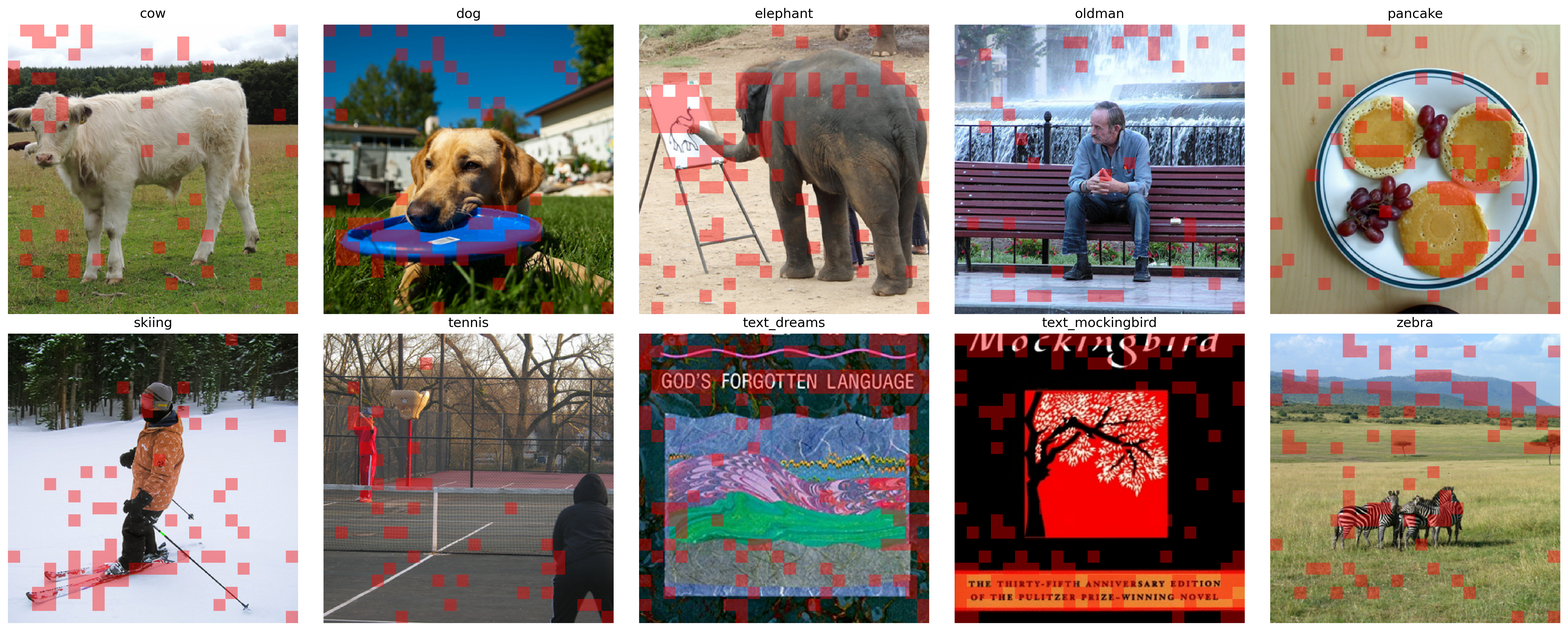
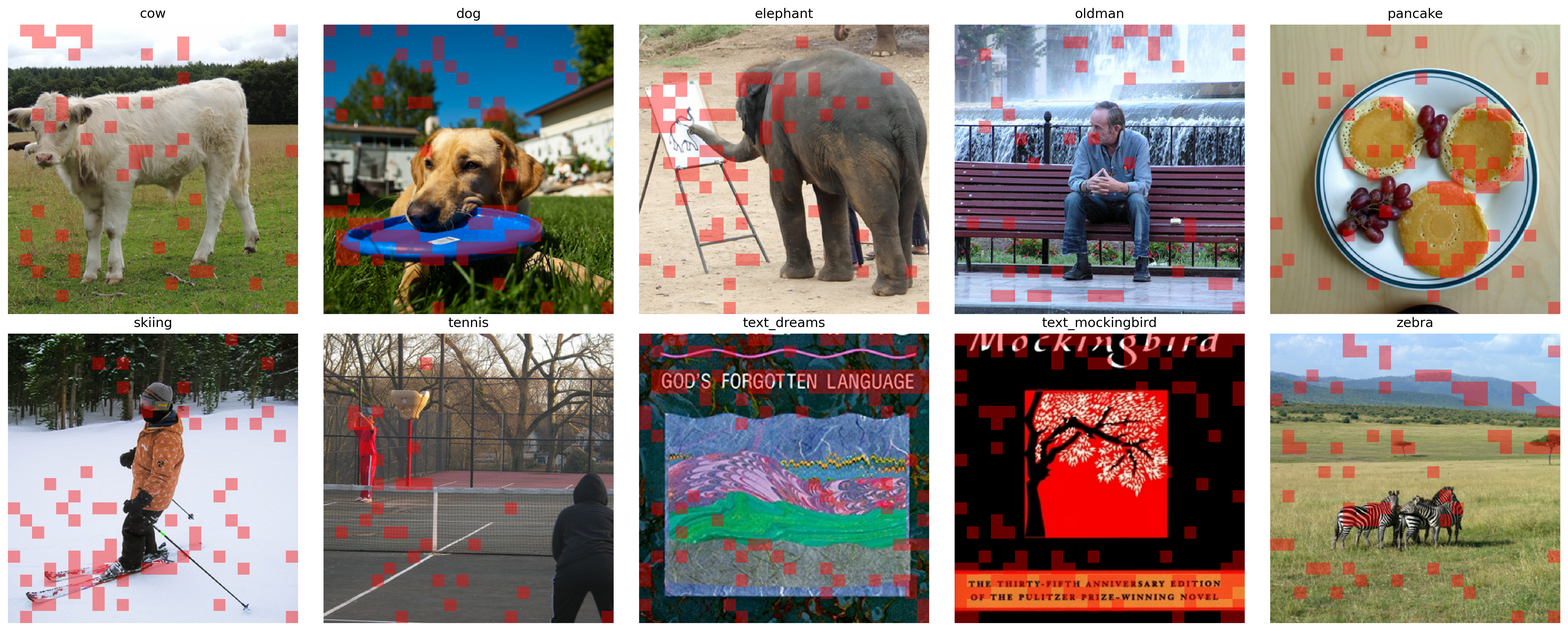
some temperature tuning experiments; not significant changes

diff --git a/src/LLaVA_wrapper/llava_local/model/multimodal_encoder/builder.py b/src/LLaVA_wrapper/llava_local/model/multimodal_encoder/builder.py
@@ -17,11 +17,12 @@ def build_vision_tower(vision_tower_cfg, **kwargs):
     MERGE_STRATEGY = "DRIP"
     # 2x - 0.5, 4x - 0.25, 8x - 0.125, 10x - 0.1
     COMPRESSION_RATE = 0.25
-    TEMPERATURE = 0.2
+    TEMPERATURE = 0.5
     # DRIP_WEIGHT_PATH = "/fs/scratch/PAS2836/yusenpeng_checkpoint/LLaVA_7B_DRIP_4x_pretrain/drip.bin"
     # DRIP_WEIGHT_PATH = "/fs/scratch/PAS2836/yusenpeng_checkpoint/LLaVA_7B_DRIP_4x_finetune_train_lora/drip.bin"
     # DRIP_WEIGHT_PATH = "/fs/scratch/PAS2836/yusenpeng_checkpoint/LLaVA_7B_DRIP_4x_pretrain_last_force/drip.bin"
-    DRIP_WEIGHT_PATH = "/fs/scratch/PAS2836/yusenpeng_checkpoint/LLaVA_7B_DRIP_4x_pretrain_temp02/checkpoint-170/drip.bin"
+    # DRIP_WEIGHT_PATH = "/fs/scratch/PAS2836/yusenpeng_checkpoint/LLaVA_7B_DRIP_4x_pretrain_temp02/checkpoint-350/drip.bin"
+    DRIP_WEIGHT_PATH = "/fs/scratch/PAS2836/yusenpeng_checkpoint/LLaVA_7B_DRIP_4x_pretrain_temp05/checkpoint-360/drip.bin"
 
     ############################################################
 

diff --git a/src/boundary_visual_LLaVA.py b/src/boundary_visual_LLaVA.py
@@ -218,7 +218,9 @@ def main():
     # DRIP_WEIGHT_PATH = "/fs/scratch/PAS2836/yusenpeng_checkpoint/LLaVA_7B_DRIP_4x_pretrain/drip.bin"
     # DRIP_WEIGHT_PATH = "/fs/scratch/PAS2836/yusenpeng_checkpoint/LLaVA_7B_DRIP_4x_finetune_train_lora/drip.bin"
     # DRIP_WEIGHT_PATH = "/fs/scratch/PAS2836/yusenpeng_checkpoint/LLaVA_7B_DRIP_4x_pretrain_last_force/drip.bin" 
-    DRIP_WEIGHT_PATH = "/fs/scratch/PAS2836/yusenpeng_checkpoint/LLaVA_7B_DRIP_4x_pretrain_temp02/checkpoint-220/drip.bin"
+    # DRIP_WEIGHT_PATH = "/fs/scratch/PAS2836/yusenpeng_checkpoint/LLaVA_7B_DRIP_4x_pretrain_temp02/checkpoint-530/drip.bin"
+    # DRIP_WEIGHT_PATH = "/fs/scratch/PAS2836/yusenpeng_checkpoint/LLaVA_7B_DRIP_4x_pretrain_temp05/checkpoint-540/drip.bin"
+    DRIP_WEIGHT_PATH = None
 
     COMPRESSION_RATE = 0.25
 
